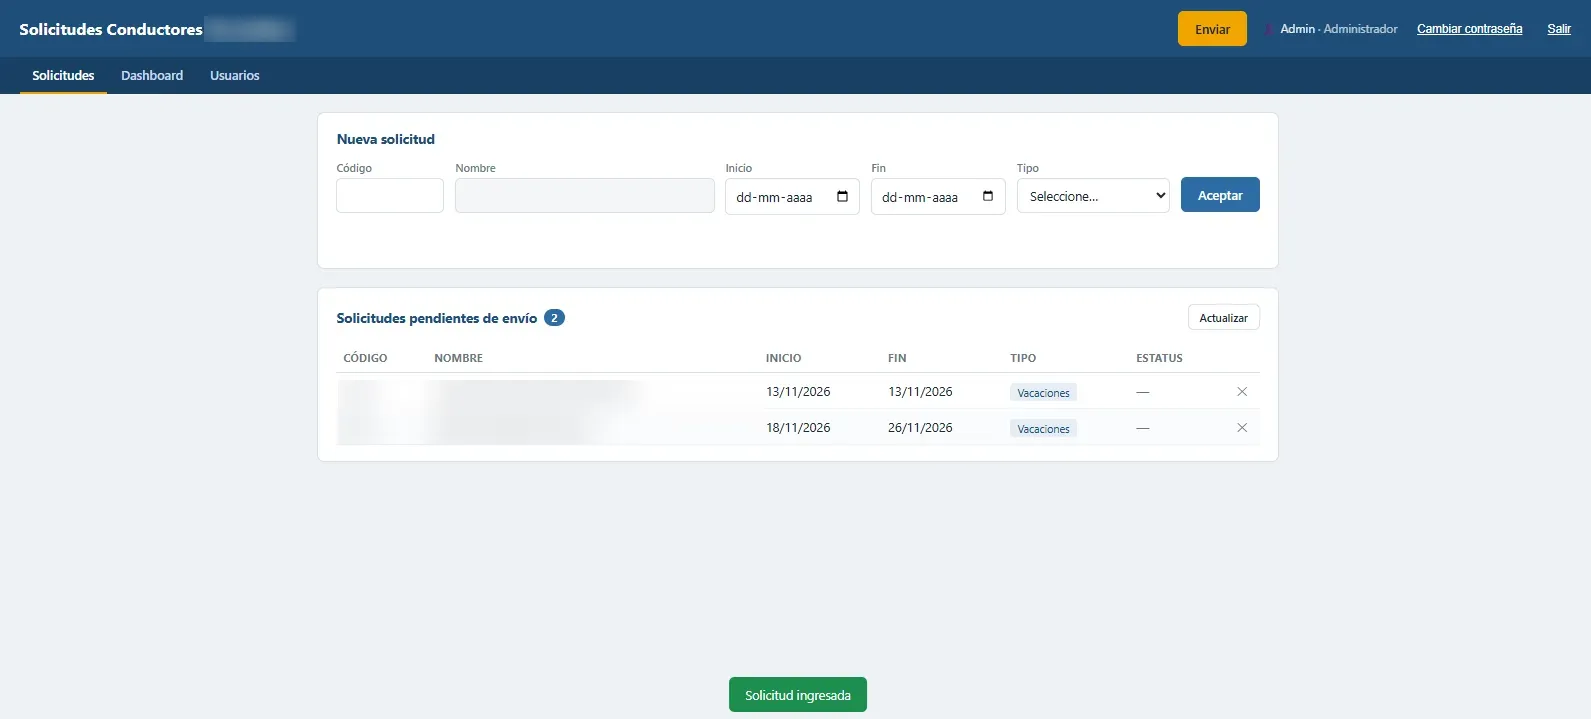
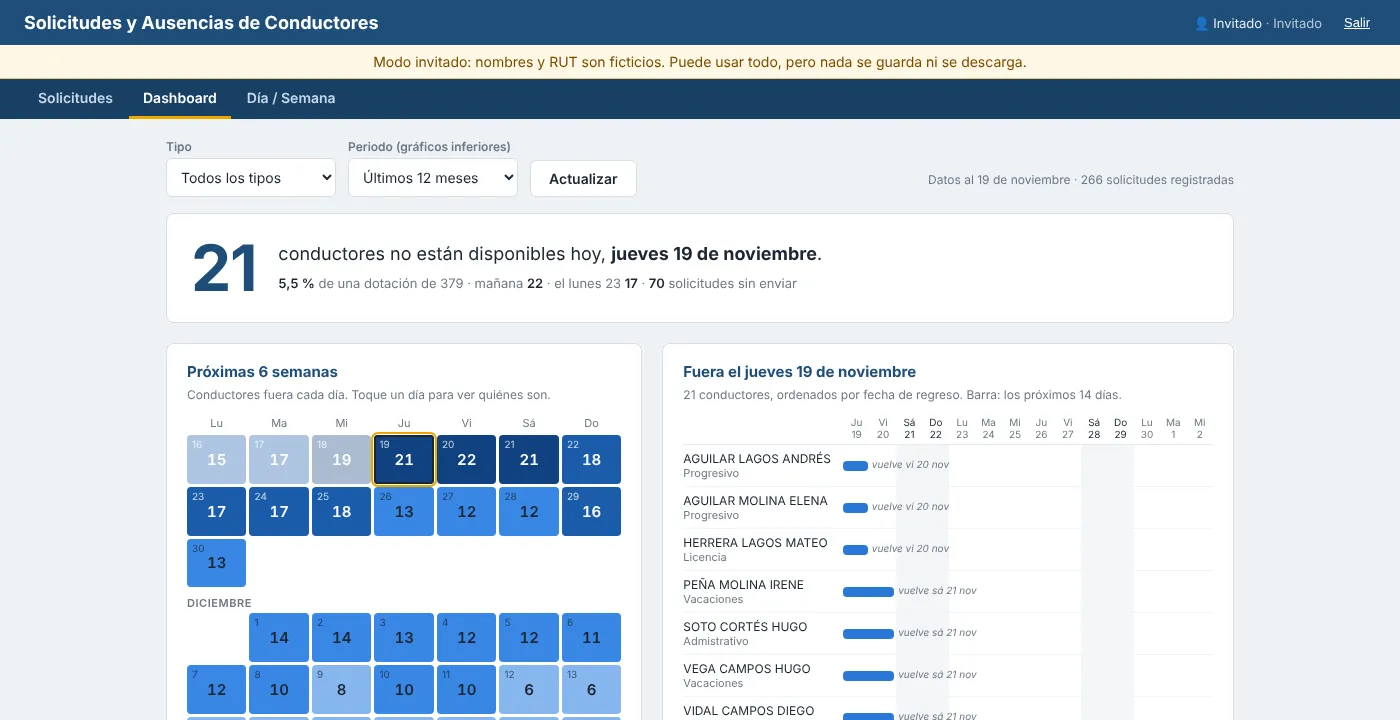
Solicitudes y Ausencias de Conductores: app en Render, demo invitado, capturas nuevas
Claude-Session: https://claude.ai/code/session_011CJXVJAr91AVGX3kddnTU4

diff --git a/index.html b/index.html
@@ -105,7 +105,7 @@ footer{color:var(--mute);font-size:13px;padding-block:8px 32px}
   <div class="in"><div class="strip">
     <div><b>7</b><span>aplicativos</span></div>
     <div><b>4</b><span>áreas de la operación</span></div>
-    <div><b>5</b><span>con demo abierta</span></div>
+    <div><b>6</b><span>con demo abierta</span></div>
   </div>
   <nav class="tabs" role="tablist">
     <button role="tab" id="t-rec" aria-controls="v-rec" aria-selected="true">Portafolio</button>
@@ -116,7 +116,7 @@ footer{color:var(--mute);font-size:13px;padding-block:8px 32px}
 <main><div class="in">
   <section id="v-rec" role="tabpanel" aria-labelledby="t-rec">
     <button id="install" class="btn">Instalar app</button>
-    <div class="demo"><b>Prueba las demos</b><span>Usuario <code>Invitado</code></span><span>Clave <code>Invitado</code></span><span style="color:var(--mute)">Despacho, Control de Flota, Control de Asistencia, Semáforo y Voucher. Los cambios no se guardan.</span></div>
+    <div class="demo"><b>Prueba las demos</b><span>Usuario <code>Invitado</code></span><span>Clave <code>Invitado</code></span><span style="color:var(--mute)">Despacho, Control de Flota, Control de Asistencia, Solicitudes, Semáforo y Voucher. Los cambios no se guardan.</span></div>
     <div id="g-rec" style="display:flex;flex-direction:column;gap:36px"></div>
   </section>
 
@@ -143,7 +143,7 @@ const APPS=[
  {id:"despacho",ico:"🚌",t:"Módulo de Despacho de Buses",d:"Registra y coordina en tiempo real la salida de buses del depósito, con hora programada vs. real y desvío por salida. Incluye un reporte ejecutivo (ICF e IE INI por línea y franja horaria, tendencia de 7 días y alertas) y un tablero de regularidad con puntualidad de buses y conductores, franjas críticas y detección de buses apelotonados y huecos.",who:"Operaciones",stack:["Node.js","Express","PostgreSQL","Render"],url:"https://despachador.onrender.com/",shots:7,pub:true,login:true,render:true},
  {id:"flota",ico:"🗺",t:"Control de Flota",d:"Registra y corrige en línea el estado diario de cada bus (terminal, estado operativo y motivo de mantenimiento). Su dashboard muestra buses reportados, operativos, en mantenimiento y disponibilidad, con gráficos por terminal y tipo de bus, el estado de la flota en cualquier fecha y hora, descargas por rango de días y una bitácora inalterable de quién cambió qué.",who:"Operaciones",stack:["Python","Flask","Render"],url:"https://control-de-flota-jdpp.onrender.com/",shots:3,pub:true,login:true,render:true},
  {id:"semaforo",ico:"🚦",t:"Semáforo de Tareas Operativas",d:"Digitaliza el control horario de las tareas operativas diarias con alertas verde, amarilla y roja según su cumplimiento. Roles de operador y administrador, trazabilidad de cambios, reglas de días hábiles y feriados, y exportación de datos.",who:"Gestión",stack:["Python","PostgreSQL","Render"],url:"https://semaforo-pie-andino.onrender.com/",shots:4,pub:true,login:true,render:true},
- {id:"solicitudes",shots:4,ico:"📝",t:"Solicitudes de Conductores",d:"Digitaliza y automatiza parcialmente las solicitudes de vacaciones y días administrativos hacia el Jefe de Operaciones.",who:"Jefe de Operaciones",stack:["Apps Script","Automatización"],url:"https://script.google.com/macros/s/AKfycbzVisnHmGPSx9HZapTOVoq8HFZBxu04YcMjxkbiF5vEiDjCE135snBFqQMEhwL_b9R4lA/exec",priv:true,pub:true,login:true},
+ {id:"solicitudes",shots:4,ico:"📝",t:"Solicitudes y Ausencias de Conductores",d:"Registra las solicitudes de vacaciones, días administrativos y permisos de los conductores y genera el correo al Jefe de Operaciones. Su dashboard muestra quién está fuera cada día, un calendario de 6 semanas y una vista diaria y semanal con el % de vacaciones sobre la dotación contratada. Cada registro guarda quién lo creó, modificó o envió y cuándo, y la base completa se descarga en Excel.",who:"Jefe de Operaciones",stack:["Node.js","Express","PostgreSQL","Render"],url:"https://solicitudes-conductores.onrender.com/",pub:true,login:true,render:true},
  {id:"asist-ops",ico:"✅",t:"Control de Asistencia · Operaciones",d:"Sistema web de control de asistencia para supervisores de operaciones, con dashboards de incidencias y gestión de usuarios.",who:"Línea de Supervisión",stack:["Node.js","Express","Google Sheets","Render"],url:"https://control-asistencia-s7mk.onrender.com/",shots:8,pub:true,login:true,render:true},
  {id:"voucher",ico:"🎫",t:"Voucher Anexo 5 RED",d:"Genera vouchers en PDF, listos para imprimir y recortar, con los horarios de pasada por paradero de cada expedición, a partir del consolidado de los Anexo 5 de todas las unidades de negocio.",who:"Operaciones",stack:["Python","Flask","PDF","Render"],url:"https://voucher-anexo5-red.onrender.com/",shots:3,pub:true,login:true,render:true},
  {id:"asist-cond",shots:2,ico:"🕒",t:"Ingreso de Asistencia de Conductores",d:"App donde el personal administrativo registra la asistencia diaria de los conductores.",who:"Conductores",stack:["Apps Script"],url:"https://script.google.com/macros/s/AKfycbxfc-sIITymHjaSTxtxY5xFLMaoZxHD9vHwLyGSdtPBd0ka8a2hZGSHmMtioxNd8wtx/exec",priv:true,pub:true,login:true}

diff --git a/sw.js b/sw.js
@@ -1,4 +1,4 @@
-const C="jv-v40",A=["./","index.html","manifest.webmanifest","icons/icon-192.png","icons/icon-512.png","icons/icon-180.png"];
+const C="jv-v41",A=["./","index.html","manifest.webmanifest","icons/icon-192.png","icons/icon-512.png","icons/icon-180.png"];
 self.addEventListener("install",e=>{e.waitUntil(caches.open(C).then(c=>c.addAll(A)));self.skipWaiting()});
 self.addEventListener("activate",e=>{e.waitUntil(caches.keys().then(k=>Promise.all(k.filter(x=>x!==C).map(x=>caches.delete(x)))));self.clients.claim()});
 self.addEventListener("fetch",e=>{const u=new URL(e.request.url);if(u.origin!==location.origin)return;e.respondWith(fetch(e.request).then(r=>{const c=r.clone();caches.open(C).then(x=>x.put(e.request,c));return r}).catch(()=>caches.match(e.request,{ignoreSearch:true})))});
